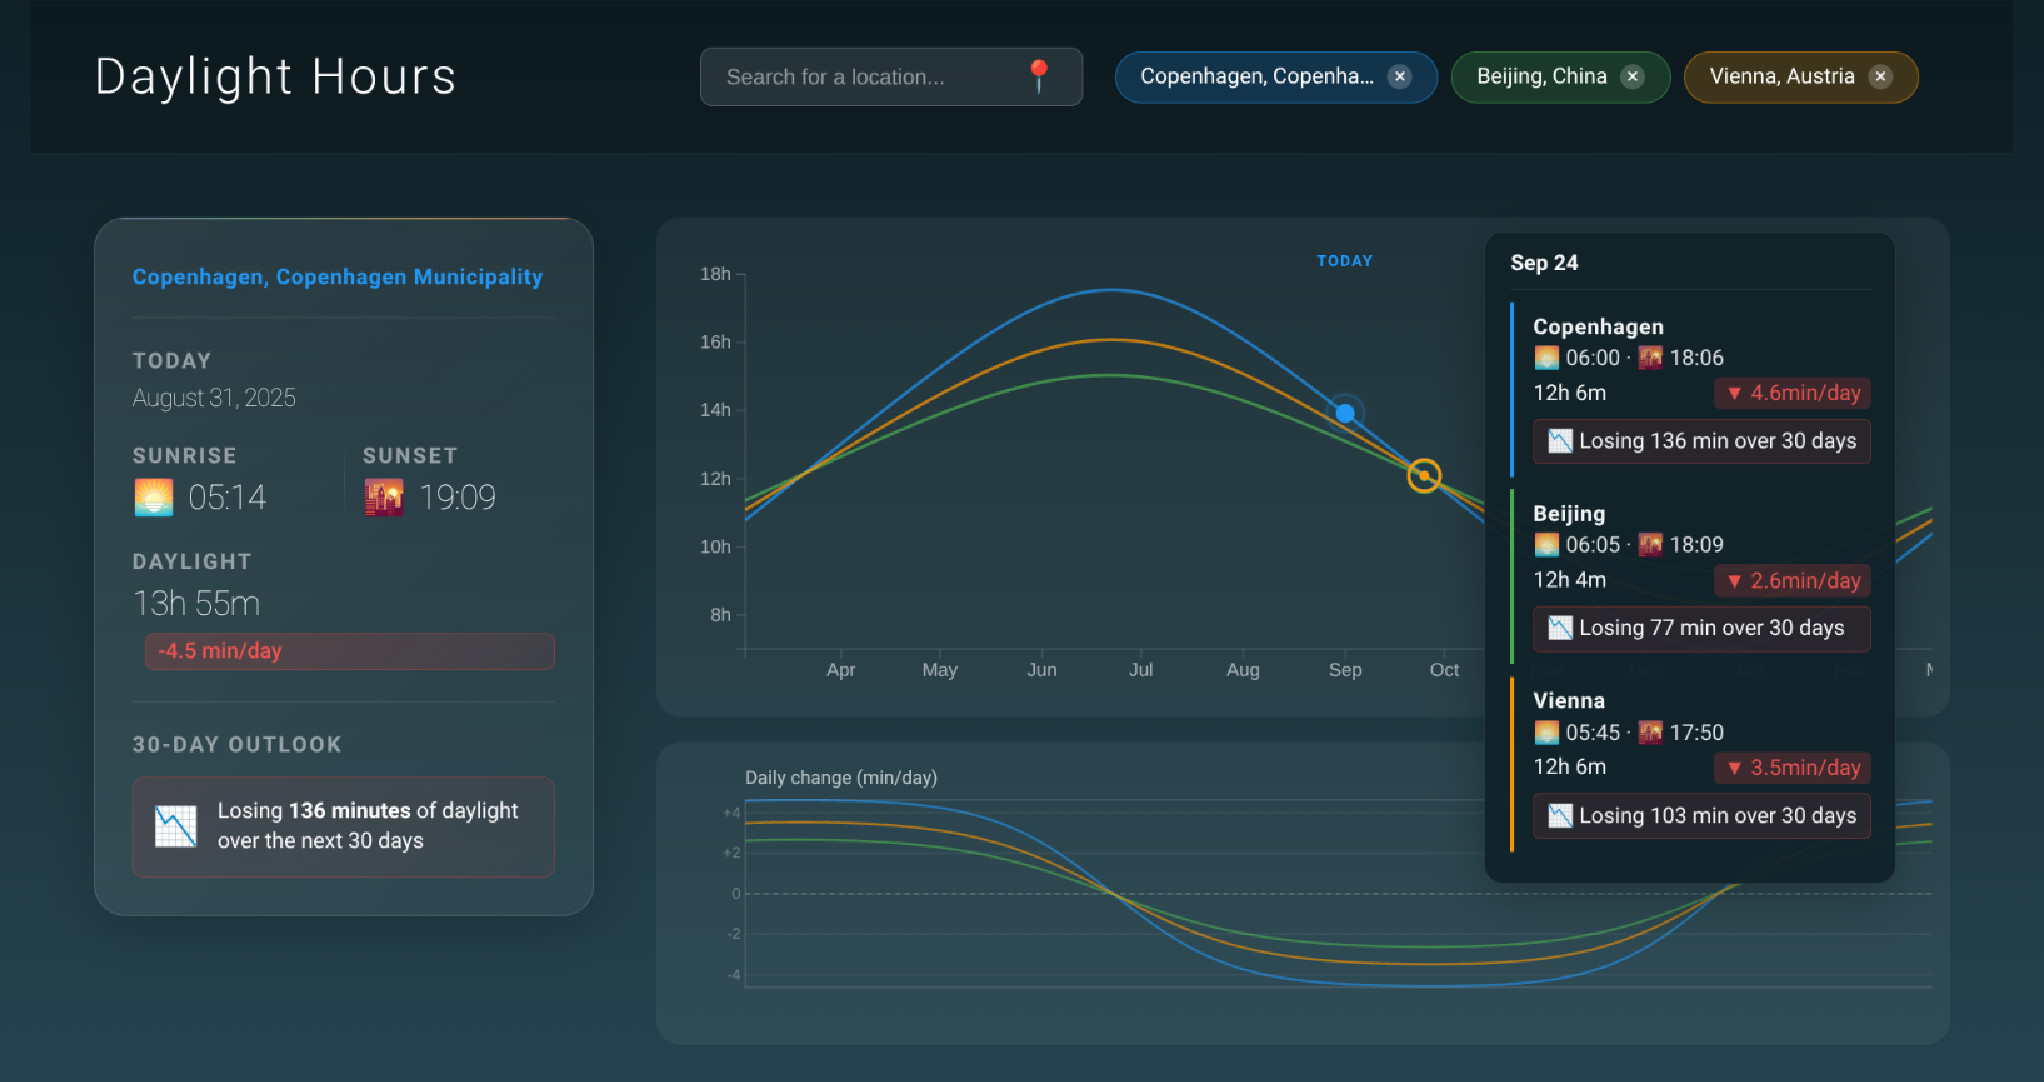
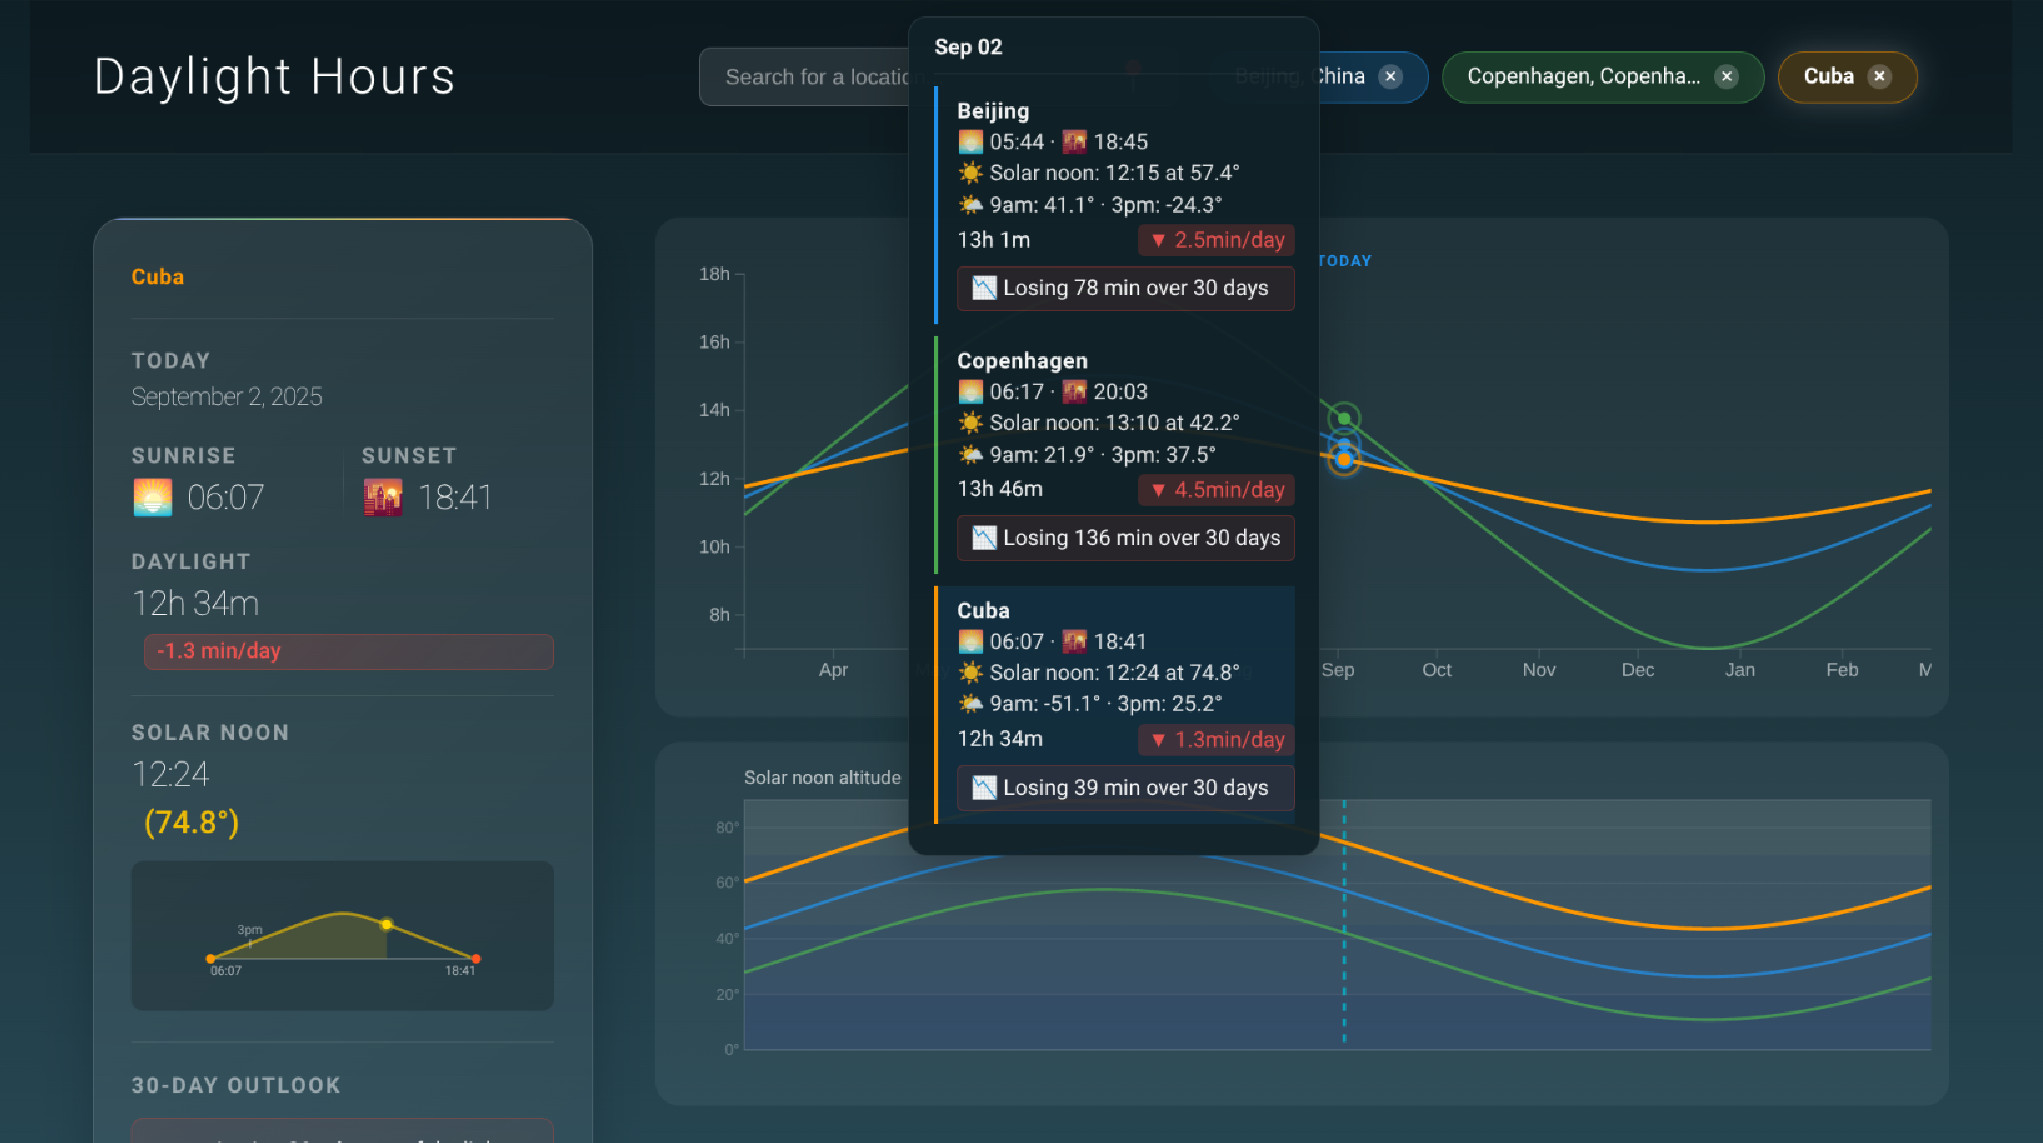
Update README.md and screenshot

diff --git a/README.md b/README.md
@@ -12,7 +12,9 @@ See how daylight changes throughout the year for any location on Earth. Explore 
 
 **Compare multiple locations** simultaneously to understand how daylight varies across different latitudes - perfect for exploring how seasons differ around the world.
 
-**Rate of change graph** reveals when daylight hours are changing most rapidly and when you're approaching the solstices.
+**Solar noon tracking** shows when the sun reaches its highest point each day and its maximum altitude, revealing how solar noon shifts throughout the year.
+
+**30-day outlook** indicates whether your days are getting longer or shorter and by how much, helping you anticipate upcoming daylight changes.
 
 **Local time display** automatically adjusts sunrise and sunset times to each location's timezone, showing you the actual times you'd experience there.
 
